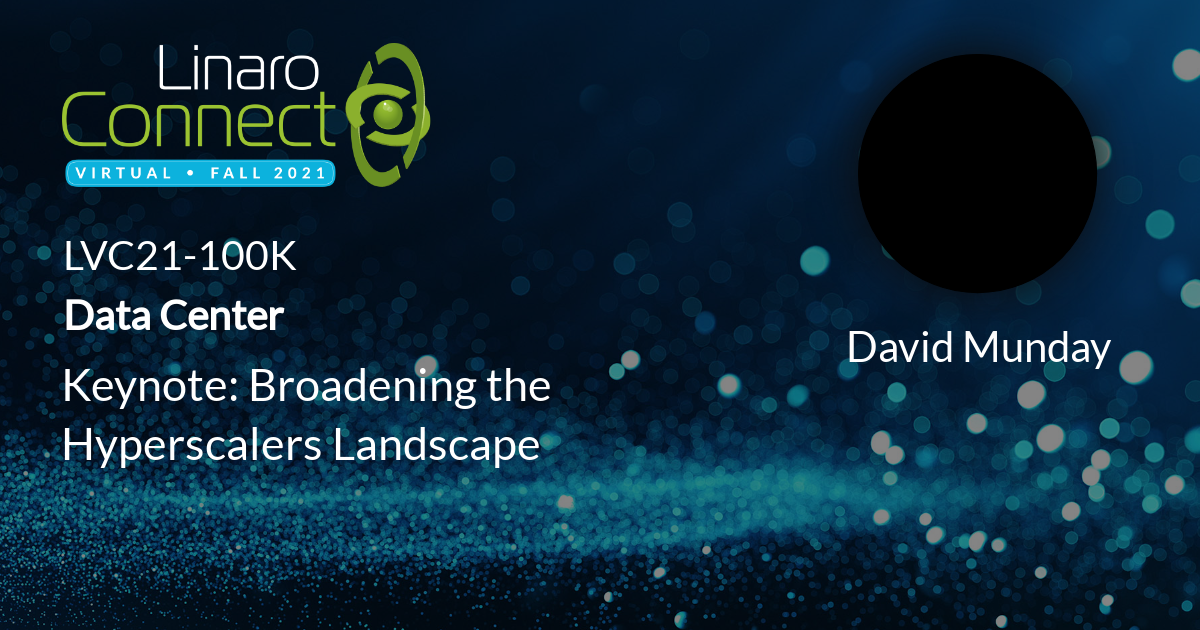
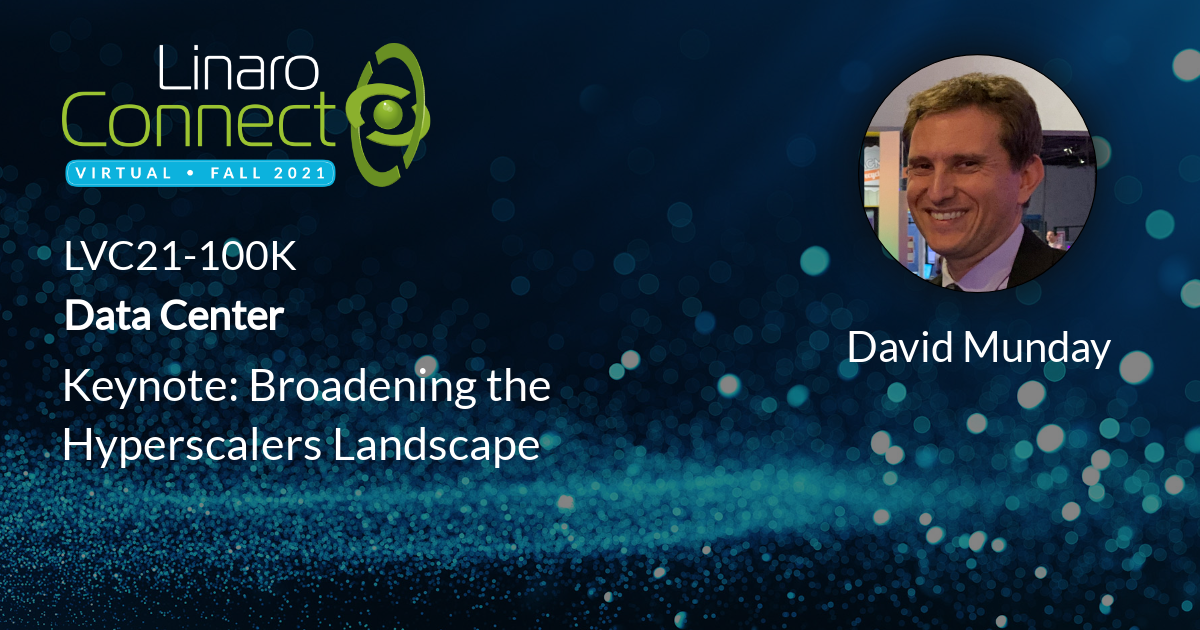
Adding day 1 resources links to posts / new share images

Changed region(s): [[0.7092, 0.0905, 0.925, 0.4825]]

diff --git a/_posts/lvc21f/sessions/2021-08-24-lvc21f-100k.md b/_posts/lvc21f/sessions/2021-08-24-lvc21f-100k.md
@@ -1,0 +1,48 @@
+---
+amazon_s3_presentation_url: ""
+amazon_s3_video_url: ""
+categories:
+  - lvc21f
+description:
+  "Level: Introductory and overview \n\n\nData centers are becoming increasingly
+  heterogeneous. Data Center operators are increasingly building their own hardware.
+  And yet there are so many server functions in the data center that are common across
+  Data Center operators.\n\n\nThis discussion will focus on areas of server management,
+  testing, and security and how the community can commonly invest to increase the
+  efficiency of building and maintaining these fleets.  \n\n\n\n"
+image: /assets/images/featured-images/lvc21f/LVC21F-100K.png
+session_id: LVC21-100K
+session_room: Stage 1
+session_slot:
+  end_time: 08-09-2021 14:55
+  start_time: 08-09-2021 14:30
+session_speakers:
+  - speaker_bio:
+      "David Munday joined Google in 2018. David leads Google's Accelerator
+      Software teams developing software running on chips powering global-scale services
+      using Machine Learning (TPU) and Video processing ASICs.
+
+      Recently David's group has added responsibility for next-generation server development
+      and deployment at Google.
+
+      Prior to working at Google, David was Director of FPGA Acceleration at Intel.
+      David holds a Ph.D. in Computer Engineering from the University of California
+      at Santa Cruz.
+
+
+      "
+    speaker_company: Google
+    speaker_image: https://data.pinetool.ai/images/aac12e9b-1e02-4175-8e0d-f77fbb91f9cb.png
+    speaker_name: David Munday
+    speaker_position: ""
+session_track: Data Center
+tag: session
+tags: Data Center
+title: "LVC21-100K Keynote: Broadening the Hyperscalers Landscape"
+---
+
+Level: Introductory and overview
+
+Data centers are becoming increasingly heterogeneous. Data Center operators are increasingly building their own hardware. And yet there are so many server functions in the data center that are common across Data Center operators.
+
+This discussion will focus on areas of server management, testing, and security and how the community can commonly invest to increase the efficiency of building and maintaining these fleets.

diff --git a/_posts/lvc21f/sessions/2021-08-24-lvc21f-102.md b/_posts/lvc21f/sessions/2021-08-24-lvc21f-102.md
@@ -1,6 +1,6 @@
 ---
-amazon_s3_presentation_url: ''
-amazon_s3_video_url: ''
+amazon_s3_presentation_url: https://static.linaro.org/connect/lvc21f/presentations/LVC21F-102.pdf
+amazon_s3_video_url: https://static.linaro.org/connect/lvc21f/videos/LVC21F-102.mp4
 categories:
 - lvc21f
 description: "Level: Introductory and overview \n\n\nLinaro's Linux Kernel Functional

diff --git a/_posts/lvc21f/sessions/2021-08-24-lvc21f-108.md b/_posts/lvc21f/sessions/2021-08-24-lvc21f-108.md
@@ -1,6 +1,6 @@
 ---
-amazon_s3_presentation_url: ''
-amazon_s3_video_url: ''
+amazon_s3_presentation_url: https://static.linaro.org/connect/lvc21f/presentations/LVC21F-108.pdf
+amazon_s3_video_url: https://static.linaro.org/connect/lvc21f/videos/LVC21F-108.mp4
 categories:
 - lvc21f
 description: 'Typically a DRM KMS driver will expose hardware blocks by registering

diff --git a/_posts/lvc21f/sessions/2021-08-24-lvc21f-100k1.md b/_posts/lvc21f/sessions/2021-08-24-lvc21f-100k1.md
@@ -1,6 +1,6 @@
 ---
-amazon_s3_presentation_url: ''
-amazon_s3_video_url: ''
+amazon_s3_presentation_url: https://static.linaro.org/connect/lvc21f/presentations/LVC21F-100K1.pdf
+amazon_s3_video_url: https://static.linaro.org/connect/lvc21f/videos/LVC21F-100K1.mp4
 categories:
 - lvc21f
 description: 'Level: Introductory and overview 

diff --git a/_posts/lvc21f/sessions/2021-08-24-lvc21f-100k2.md b/_posts/lvc21f/sessions/2021-08-24-lvc21f-100k2.md
@@ -1,6 +1,6 @@
 ---
-amazon_s3_presentation_url: ''
-amazon_s3_video_url: ''
+amazon_s3_presentation_url: https://static.linaro.org/connect/lvc21f/presentations/LVC21F-100K2.pdf
+amazon_s3_video_url: https://static.linaro.org/connect/lvc21f/videos/LVC21F-100K2.mp4
 categories:
 - lvc21f
 description: 'Level: Introductory and overview 

diff --git a/_posts/lvc21f/sessions/2021-08-24-lvc21f-101.md b/_posts/lvc21f/sessions/2021-08-24-lvc21f-101.md
@@ -1,6 +1,6 @@
 ---
-amazon_s3_presentation_url: ''
-amazon_s3_video_url: ''
+amazon_s3_presentation_url: https://static.linaro.org/connect/lvc21f/presentations/LVC21F-101.pdf
+amazon_s3_video_url: https://static.linaro.org/connect/lvc21f/videos/LVC21F-101.mp4
 categories:
 - lvc21f
 description: 'Level: Introductory and overview 

diff --git a/_posts/lvc21f/sessions/2021-08-24-lvc21f-116.md b/_posts/lvc21f/sessions/2021-08-24-lvc21f-116.md
@@ -1,6 +1,6 @@
 ---
-amazon_s3_presentation_url: ''
-amazon_s3_video_url: ''
+amazon_s3_presentation_url: https://static.linaro.org/connect/lvc21f/presentations/LVC21F-116.pdf
+amazon_s3_video_url: https://static.linaro.org/connect/lvc21f/videos/LVC21F-116.mp4
 categories:
 - lvc21f
 description: 'Level: Introductory and overview 

diff --git a/_posts/lvc21f/sessions/2021-08-24-lvc21f-113.md b/_posts/lvc21f/sessions/2021-08-24-lvc21f-113.md
@@ -1,6 +1,6 @@
 ---
-amazon_s3_presentation_url: ''
-amazon_s3_video_url: ''
+amazon_s3_presentation_url: https://static.linaro.org/connect/lvc21f/presentations/LVC21F-113.pdf
+amazon_s3_video_url: https://static.linaro.org/connect/lvc21f/videos/LVC21F-113.mp4
 categories:
 - lvc21f
 description: 'Level: Introductory and Overview

diff --git a/_posts/lvc21f/sessions/2021-08-24-lvc21f-103.md b/_posts/lvc21f/sessions/2021-08-24-lvc21f-103.md
@@ -1,6 +1,6 @@
 ---
-amazon_s3_presentation_url: ''
-amazon_s3_video_url: ''
+amazon_s3_presentation_url: https://static.linaro.org/connect/lvc21f/presentations/LVC21F-103.pdf
+amazon_s3_video_url: https://static.linaro.org/connect/lvc21f/videos/LVC21F-103.mp4
 categories:
 - lvc21f
 description: 'Level: Intermediate 

diff --git a/_posts/lvc21f/sessions/2021-08-24-lvc21f-105.md b/_posts/lvc21f/sessions/2021-08-24-lvc21f-105.md
@@ -1,6 +1,6 @@
 ---
-amazon_s3_presentation_url: ''
-amazon_s3_video_url: ''
+amazon_s3_presentation_url: https://static.linaro.org/connect/lvc21f/presentations/LVC21F-105.pdf
+amazon_s3_video_url: https://static.linaro.org/connect/lvc21f/videos/LVC21F-105.mp4
 categories:
 - lvc21f
 description: 'Level: Intermediate 

diff --git a/_posts/lvc21f/sessions/2021-08-24-lvc21f-106.md b/_posts/lvc21f/sessions/2021-08-24-lvc21f-106.md
@@ -1,6 +1,6 @@
 ---
-amazon_s3_presentation_url: ''
-amazon_s3_video_url: ''
+amazon_s3_presentation_url: https://static.linaro.org/connect/lvc21f/presentations/LVC21F-106.pdf
+amazon_s3_video_url: https://static.linaro.org/connect/lvc21f/videos/LVC21F-106.mp4
 categories:
 - lvc21f
 description: 'Level: Intermediate 

diff --git a/_posts/lvc21f/sessions/2021-08-24-lvc21f-107.md b/_posts/lvc21f/sessions/2021-08-24-lvc21f-107.md
@@ -1,6 +1,6 @@
 ---
-amazon_s3_presentation_url: ''
-amazon_s3_video_url: ''
+amazon_s3_presentation_url: https://static.linaro.org/connect/lvc21f/presentations/LVC21F-107.pdf
+amazon_s3_video_url: https://static.linaro.org/connect/lvc21f/videos/LVC21F-107.mp4
 categories:
 - lvc21f
 description: 'Level: Intermediate 
